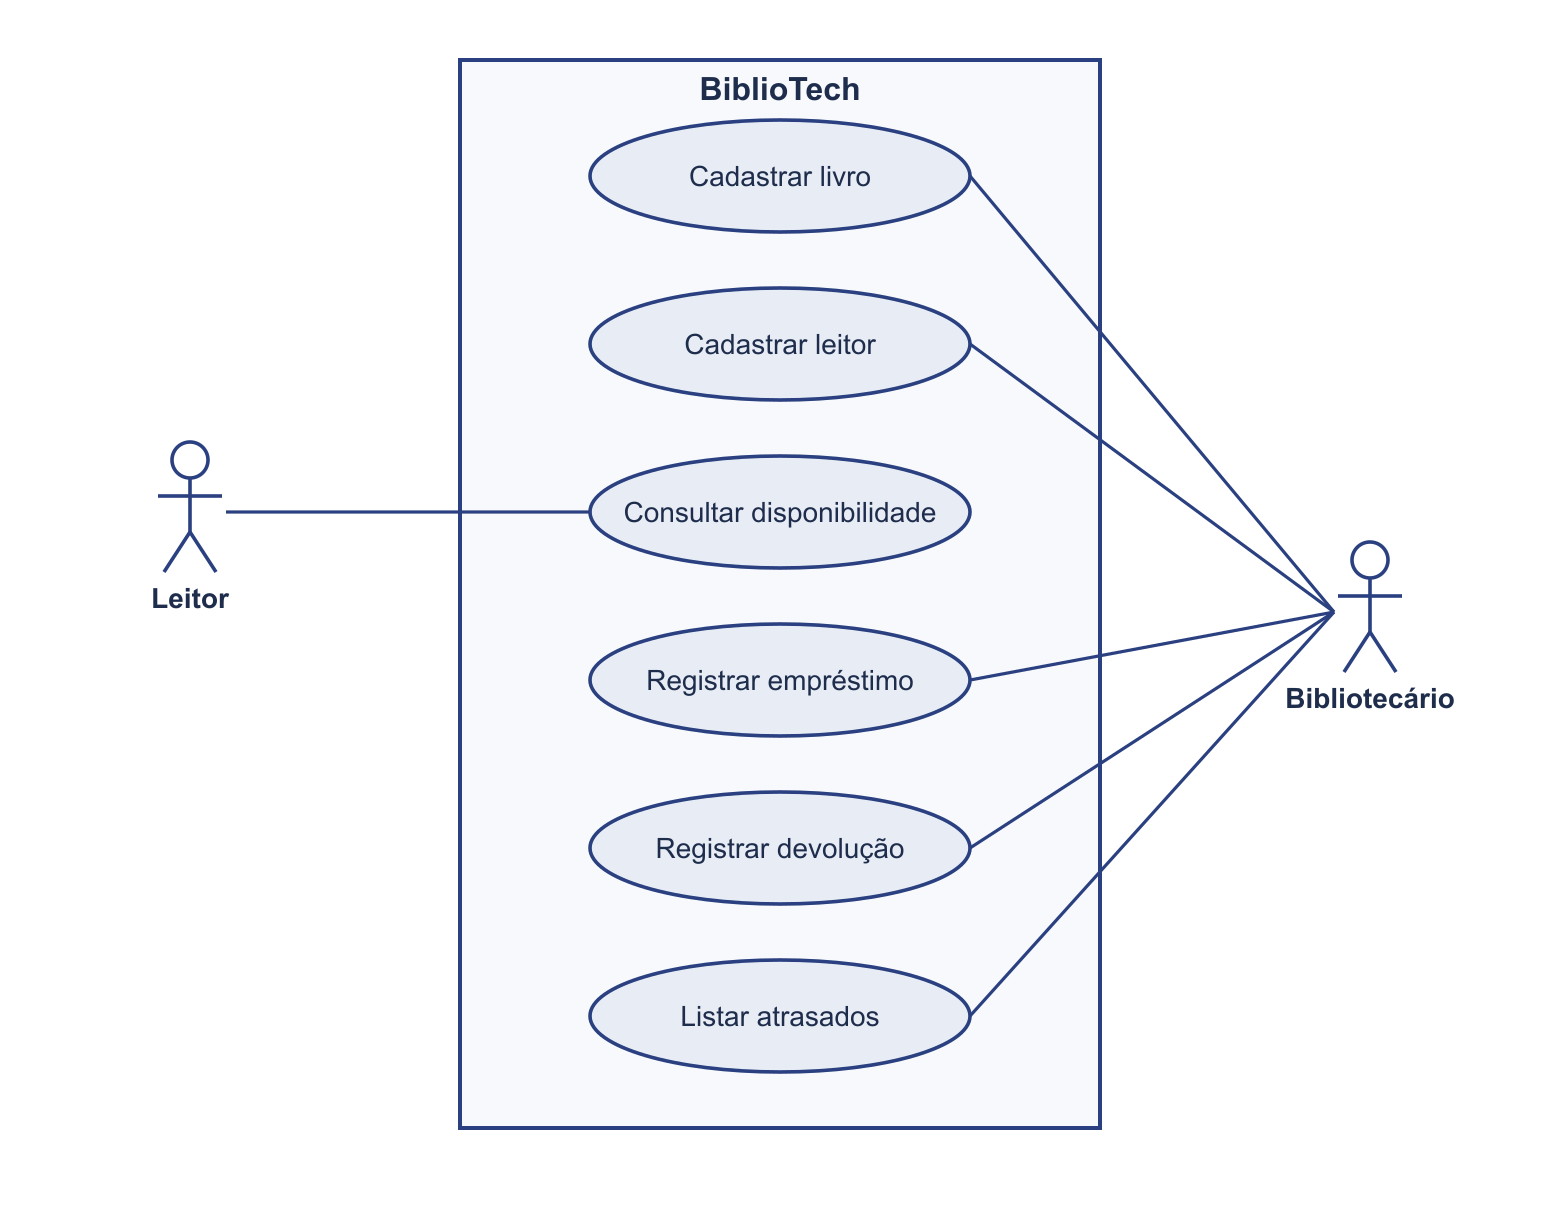
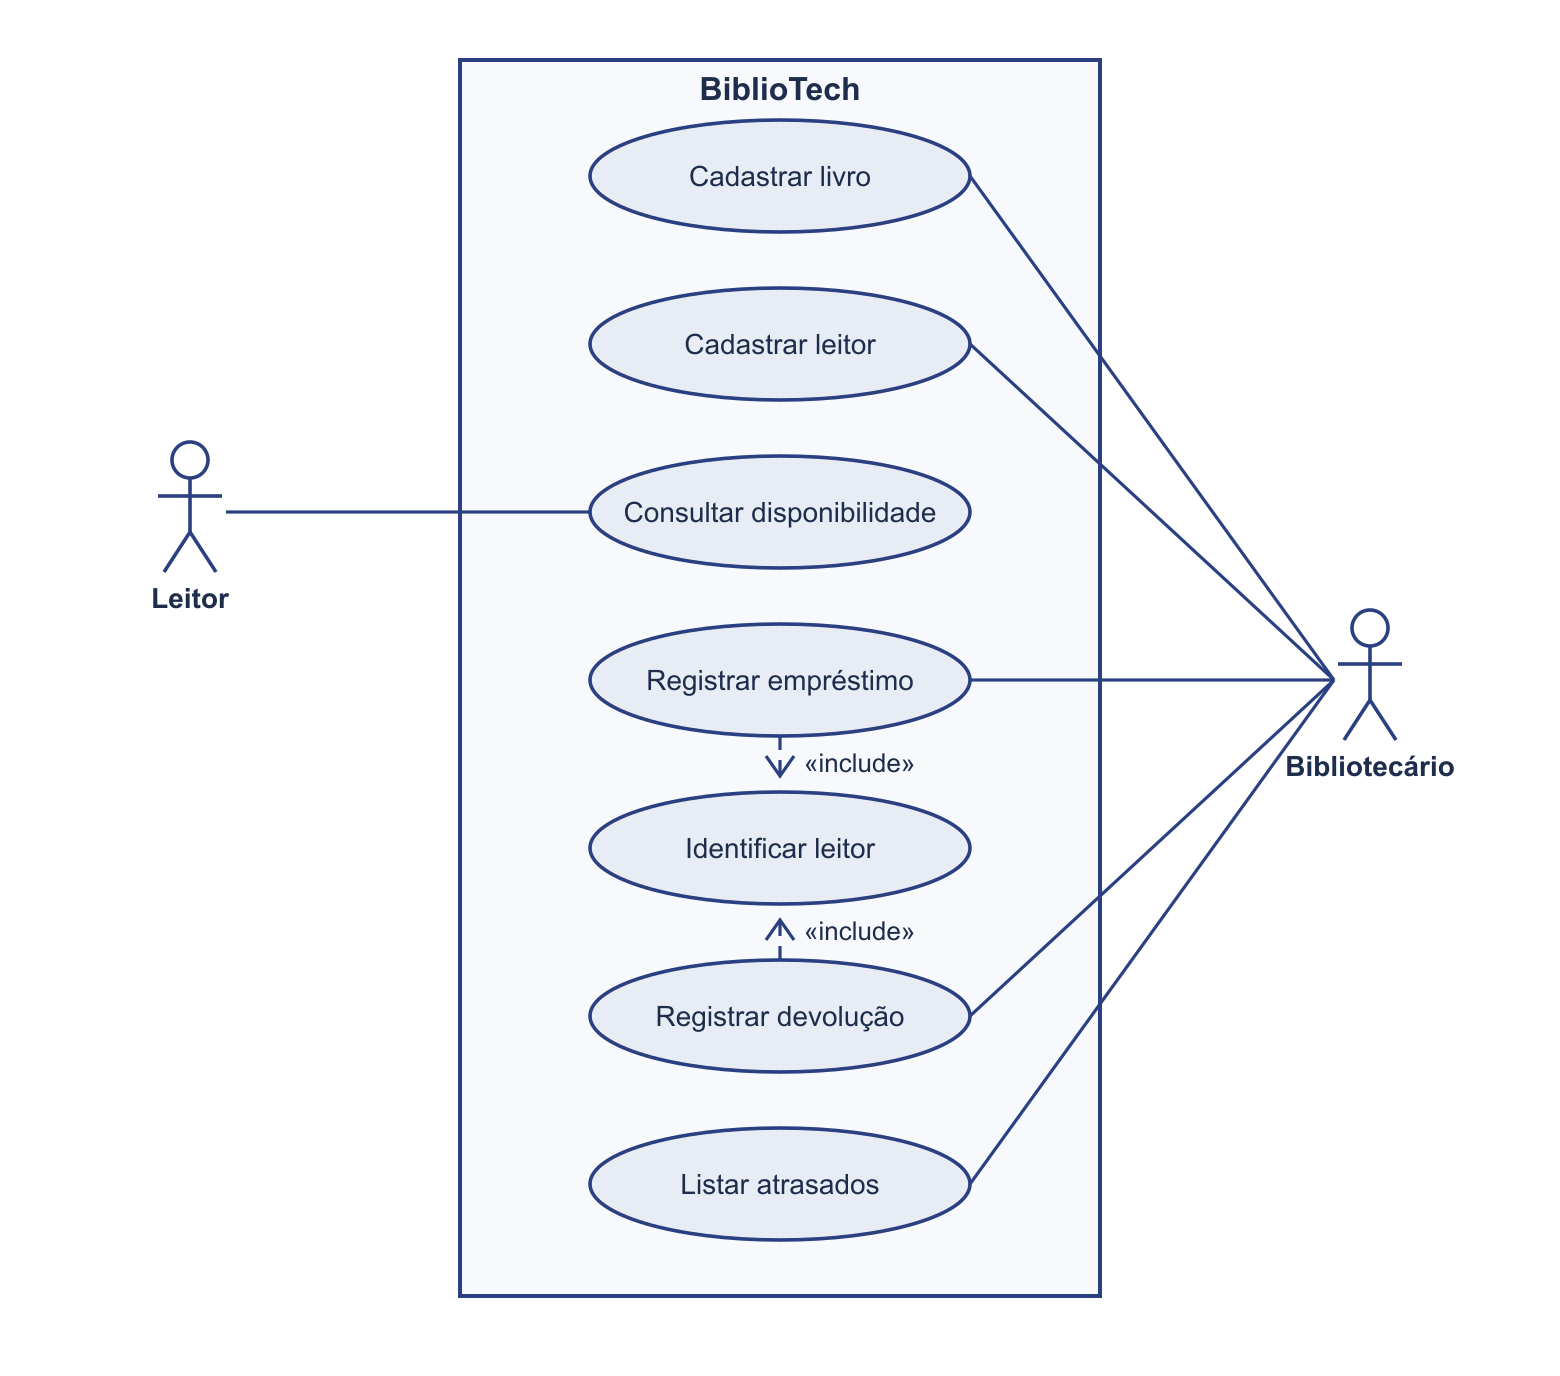
Aula 24: o «include» do BiblioTech fica, com dois casos base

diff --git a/exemplo-bibliotech/docs/4.2.2-casos-de-uso.md b/exemplo-bibliotech/docs/4.2.2-casos-de-uso.md
@@ -23,6 +23,7 @@ Nem todo requisito vira elipse. O RF07 (Calcular data de devolução) é algo qu
 | Cadastrar leitor | Bibliotecário | RF02 |
 | Consultar disponibilidade | Leitor | RF03 |
 | Registrar empréstimo | Bibliotecário | RF05 e RF07 (o cálculo da data é o passo 5 do fluxo principal) |
+| Identificar leitor | nenhum: é incluído por Registrar empréstimo e Registrar devolução | passo que os dois compartilham, sem requisito próprio |
 | Registrar devolução | Bibliotecário | RF04 |
 | Listar atrasados | Bibliotecário | RF06 |
 
@@ -36,7 +37,7 @@ Fonte: Autoria própria (2026).
 
 A Figura 1 mostra a fronteira com o nome do sistema e os dois atores do lado de fora. O Leitor se liga só a Consultar disponibilidade. O Bibliotecário se liga aos outros cinco casos de uso. As linhas entre ator e caso de uso são contínuas e sem ponta.
 
-Não há «include» nem «extend». Identificar o leitor, que em versões anteriores do diagrama era um caso incluído, aqui é o passo 1 do fluxo principal de Registrar empréstimo. Só esse caso de uso precisa dele, e «include» só compensa quando dois ou mais casos compartilham o passo.
+Há um «include»: Registrar empréstimo e Registrar devolução começam identificando quem está no balcão, e a seta tracejada sai de cada caso base para Identificar leitor. Identificar leitor não tem ator nem requisito próprio, porque ninguém vem ao balcão só para isso: é um passo que dois casos compartilham. Não há «extend»: nada no escopo acontece só às vezes.
 
 ## Especificação do caso de uso principal
 
@@ -51,7 +52,7 @@ Registrar empréstimo é o caso de uso que o sistema existe para fazer: é ele q
 
 **Fluxo principal**
 
-1. O bibliotecário informa o leitor, pelo nome ou pela matrícula.
+1. O bibliotecário identifica o leitor, pelo nome ou pela matrícula («include» Identificar leitor).
 2. O sistema mostra o cadastro do leitor e confirma que ele não tem empréstimo atrasado.
 3. O bibliotecário informa o livro.
 4. O sistema confirma que o exemplar está disponível.
@@ -84,6 +85,6 @@ A diferença entre A1 e E1 está no fim. No fluxo alternativo, o empréstimo aco
 
 **Todo requisito tem lugar.** Seis viraram elipse com o mesmo nome. O RF07 não virou, e a tabela diz onde ele mora.
 
-**Toda elipse tem requisito.** Nenhum caso de uso apareceu sem um requisito por trás. Se aparecesse, seria sinal de requisito faltando na 4.2.1, e o conserto seria lá.
+**Toda elipse tem requisito.** Nenhum caso de uso apareceu sem um requisito por trás. Se aparecesse, seria sinal de requisito faltando na 4.2.1, e o conserto seria lá. A exceção é Identificar leitor, que existe pelo «include» e não por um requisito.
 
 **O que a especificação mudou.** Escrever o fluxo mostrou uma regra que a 4.2.1 não tinha: o que fazer com o leitor atrasado. Ela ficou anotada com ❓ na exceção E1, para a próxima conversa com a Dona Marli.
